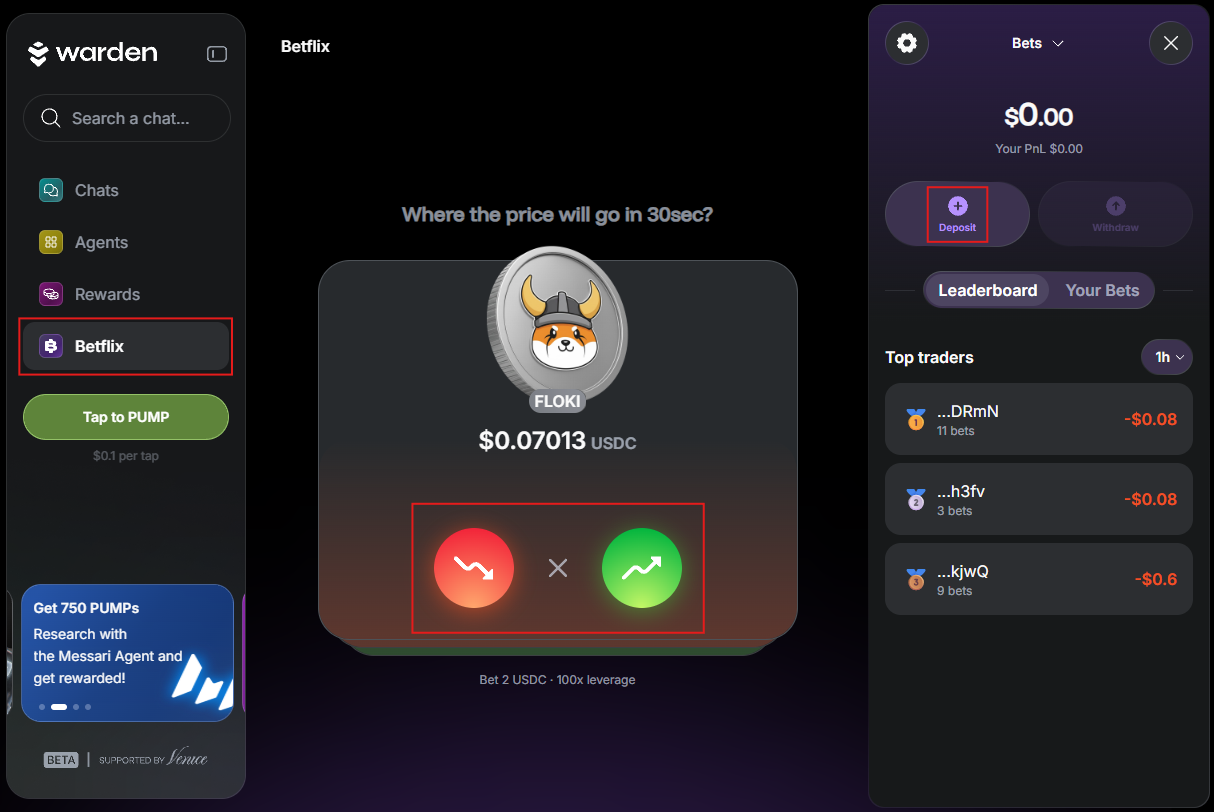
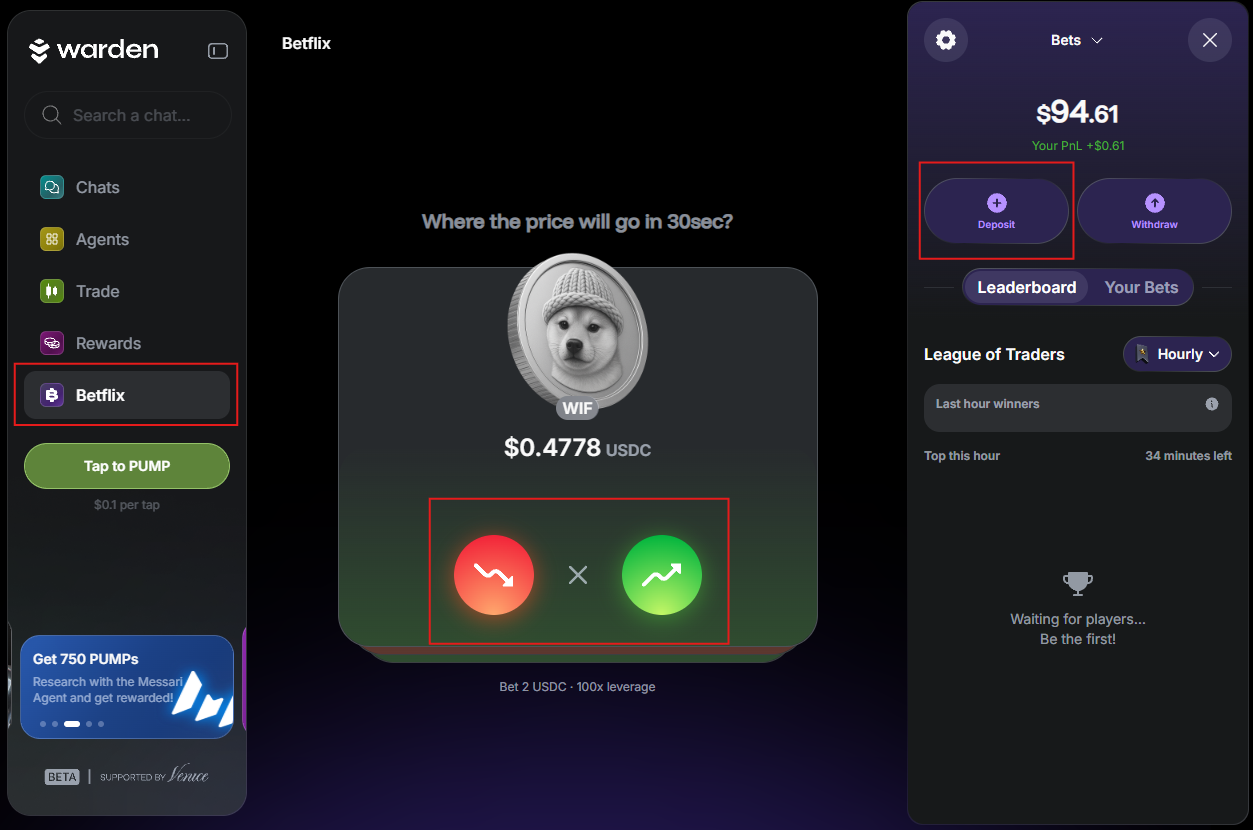
finalized betflix and coingecko updates

diff --git a/docs/help-center/docs/warden-app/play-betflix.md b/docs/help-center/docs/warden-app/play-betflix.md
@@ -25,16 +25,11 @@ Gameplay details:
 - The bet is fixed: **$2** per round with fixed **100x leverage**.
 - Supported coins: **DOGE**, **PEPE**, **BONK**, **WIF**, **SHIB**, **TRUMP**, and more.
 - All bets incur fees. Learn more: [Betflix fees](fees#betflix-fees).
-- [Top traders](#check-your-stats) earn bonuses and [PUMPs](earn-rewards#earn-pumps).
+- Top traders [earn PUMPs](#earn-pumps).
 
 :::tip
 We're currently running a campaign that lets you play Betflix with **zero fees**.
 :::
-
-:::tip
-To learn more about PUMP rewards for Betflix activity, [browse the available tasks](earn-rewards#complete-tasks) in the Rewards section.
-:::
-
 
 ## Start playing
 
@@ -64,15 +59,26 @@ You can move funds between your [main Warden wallet](manage-your-wallet) and you
 To switch to your main wallet at any time, select **Main Account** from the top menu.
 :::
 
-![Start playing Betflix in Warden](../../static/img/warden-app/play-betflix-2.png)
+![Manage Betflix wallet in Warden](../../static/img/warden-app/play-betflix-2.png)
+
+## Earn PUMPs
+
+By playing Betflix, you join the **League of Traders**: each swipe contributes to your **hourly**, **daily**, and **weekly** rankings, based on profit and streaks.
+
+Top traders earn [PUMPs](earn-rewards#earn-pumps)—points that reward your activity in Warden:
+
+- Hourly League: 1st–3rd rank
+- Daily League: 1st–5th rank
+- Weekly league: 1st–5th rank
+
+[Check your stats](#check-your-stats) to view leaderboards and see the exact rewards for each rank.
 
 ## Check your stats
 
-Each swipe adds to your hourly, daily, and weekly **leaderboards**, ranked by profit and streaks. Top traders earn bonuses, tokens, and [PUMPs](earn-rewards#earn-pumps).
+You can view the game statistics in your Betflix wallet, located on the right of the **Betflix** tab:
 
-You can view your game statistics in your Betflix wallet, on the right of the **Betflix** tab:
+- View your [League of Traders](#earn-pumps) ranking in the **Leaderboard** tab. You can select the **Hourly**, **Daily**, or **Weekly** league.
+- To see rewards for each rank, click the information icon next to the winners list.
+- To review your recent plays and results, switch to **Your Bets**.
 
-- Check your ranking in the **Leaderboard** tab. You can filter it by **1h**, **24h**, or **7d**.
-- Review your recent plays and results in the **Your Bets** tab.
-
-![Start playing Betflix in Warden](../../static/img/warden-app/play-betflix-3.png)
+![Check Betflix stats in Warden](../../static/img/warden-app/play-betflix-3.png)

diff --git a/docs/help-center/docs/warden-app/explore-ai-agents.md b/docs/help-center/docs/warden-app/explore-ai-agents.md
@@ -191,9 +191,12 @@ Fees: [research Agent fees](fees#research-agent-fees)
 
 ### CoinGecko
 
-**CoinGecko** is an Agent that provides [CoinGecko](https://www.coingecko.com) information on Price, MarketCap, FDV, Circulating supply, and trading volumes for specific coins.
+**CoinGecko** is an Agent that integrates with [CoinGecko](https://www.coingecko.com) to deliver insights and analytics on cryptocurrencies. You can analyze up to **two coins**. To compare **three or more tokens**, use [Messari Deep Research](#messari-deep-research).
 
-The Agent provides data for maximum 2 coins. If you need to analyze 3 or more tokens, use [Messari](#messari-deep-research).
+The Agent supports two key functions:
+
+- Data retrieval: current price, market cap, volume, and other metrics
+- Coin analysis: performance and risk assessment, general takeaways, and comparative insights
 
 Fees: none
 

diff --git a/docs/help-center/docs/warden-app/earn-rewards.md b/docs/help-center/docs/warden-app/earn-rewards.md
@@ -68,7 +68,7 @@ You can access the game from any tab—simply click **Tap to PUMP** in the left 
 
 ### Play Betflix
 
-You can earn PUMPs if you climb the leaderboards in **Betflix**, our trading game.
+You can earn additional PUMPs by playing **Betflix**, our trading game.
 
 Learn more: [Play Betflix](play-betflix).
 
